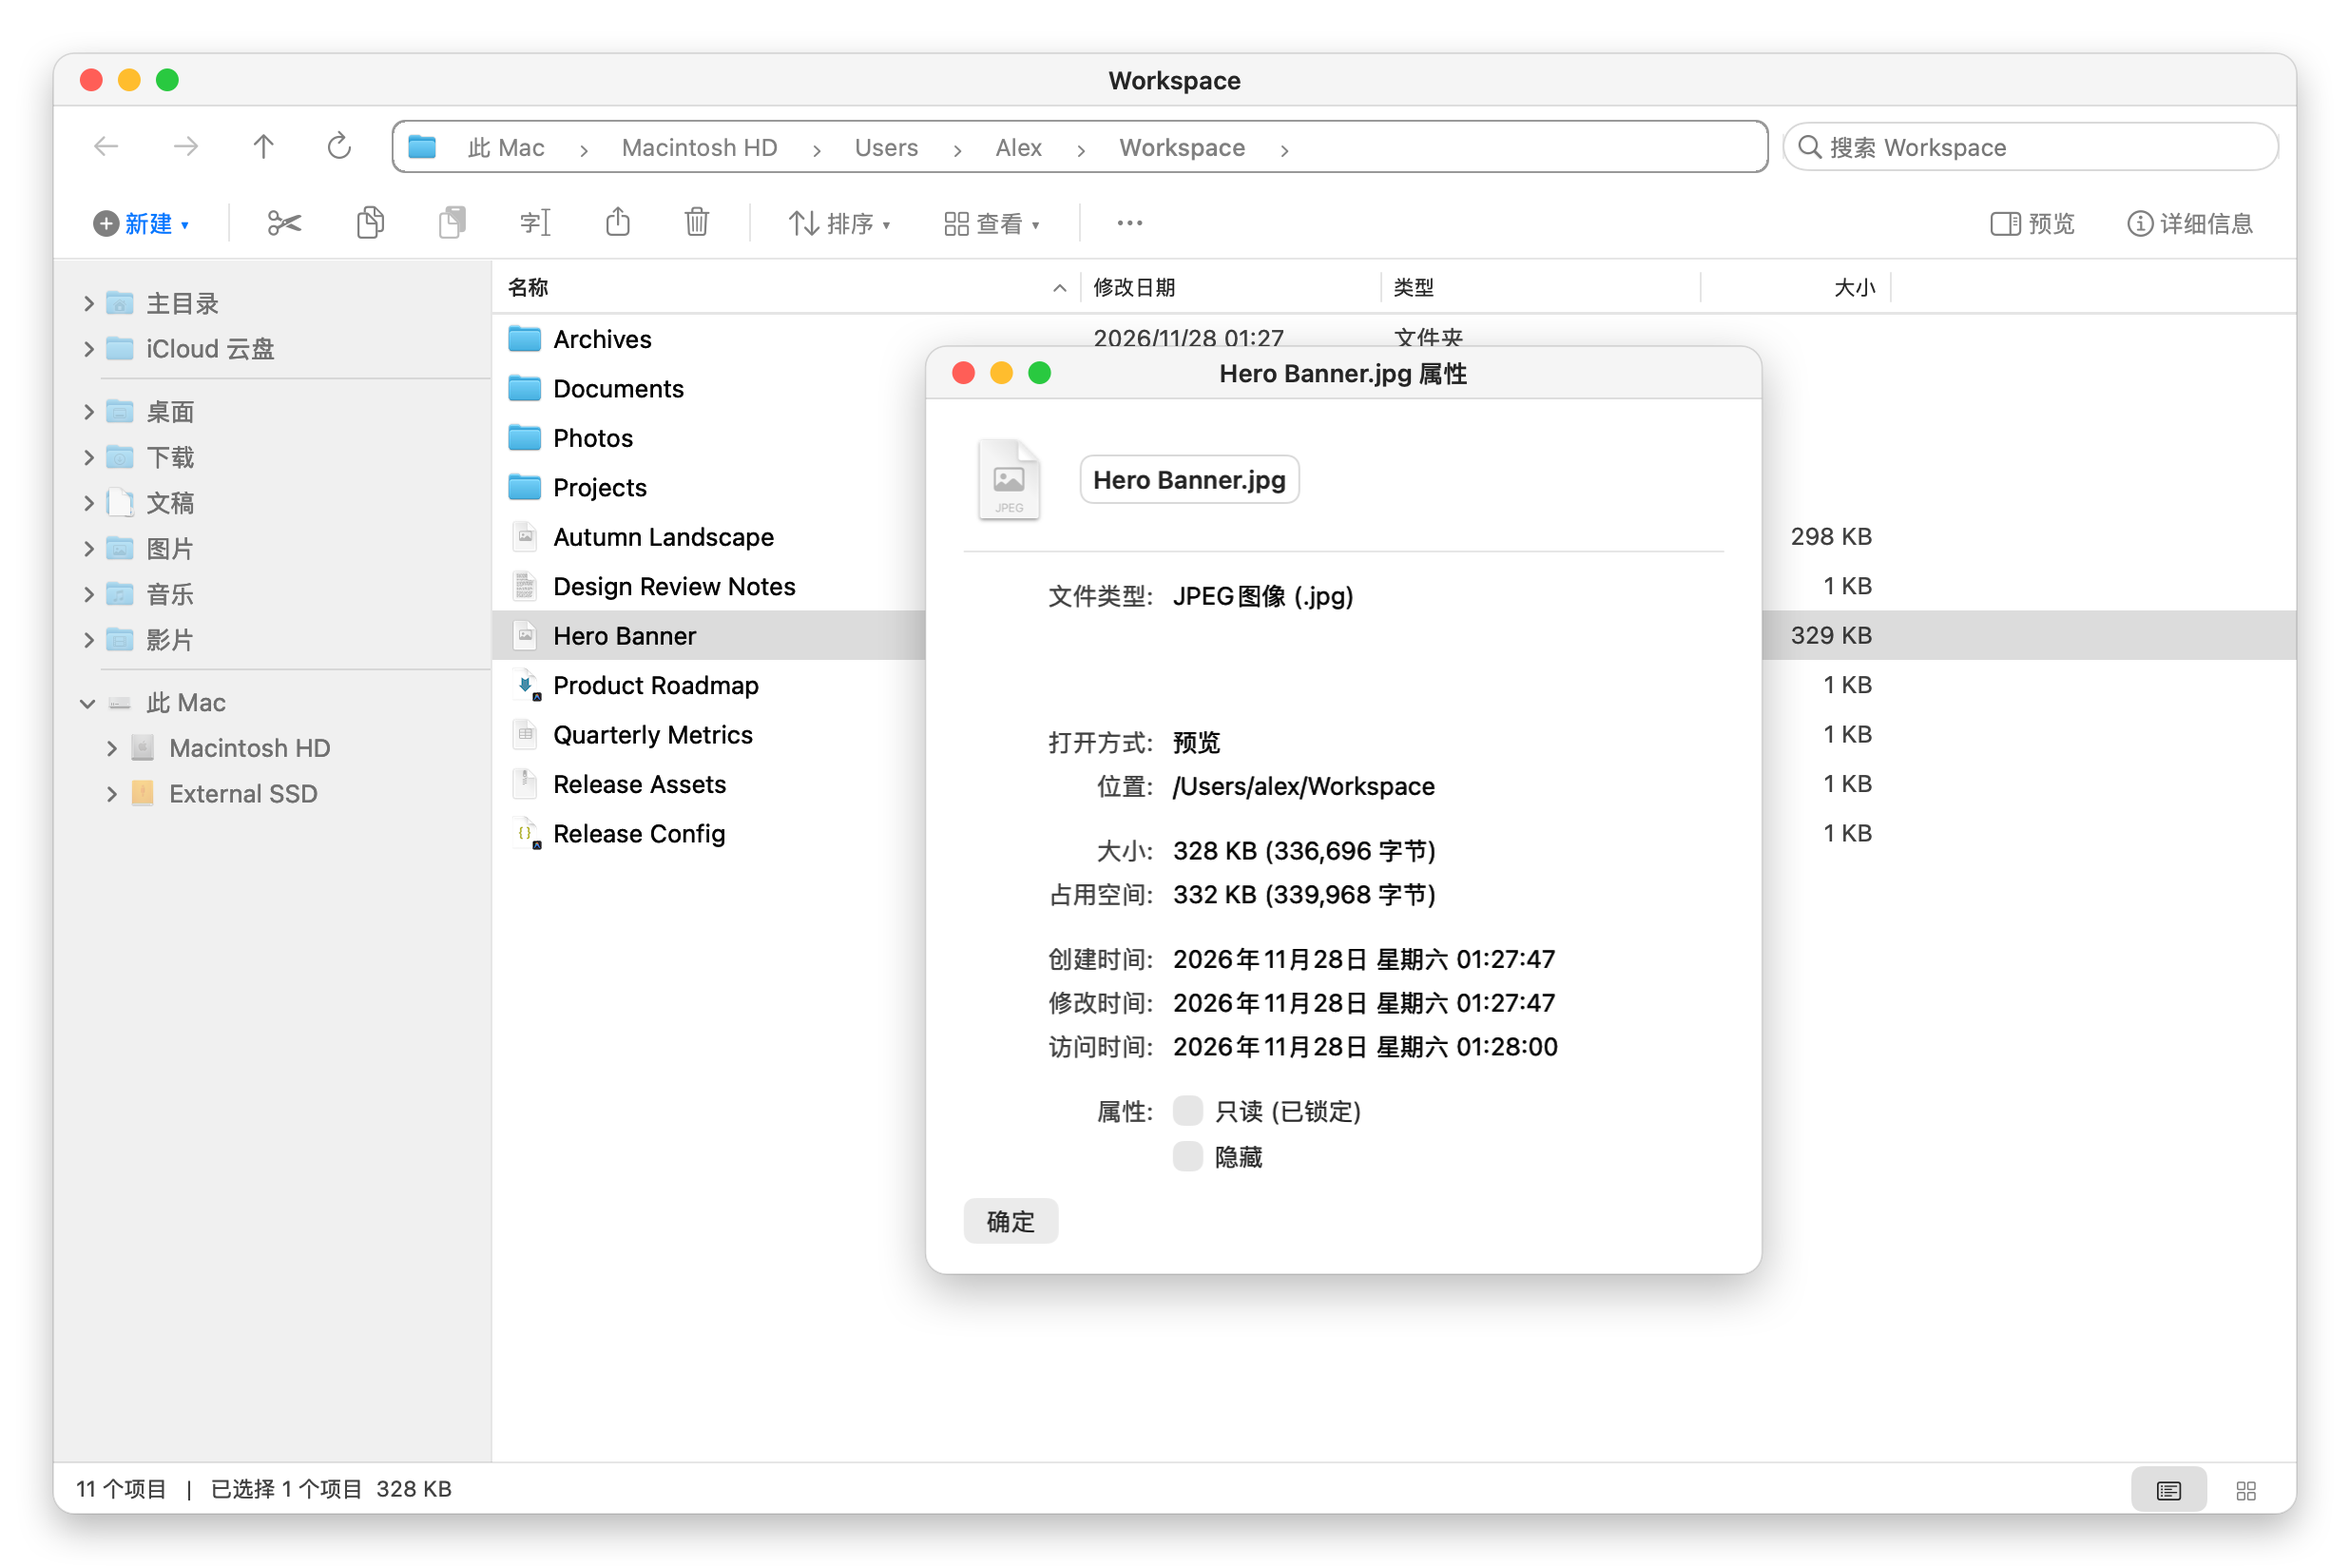
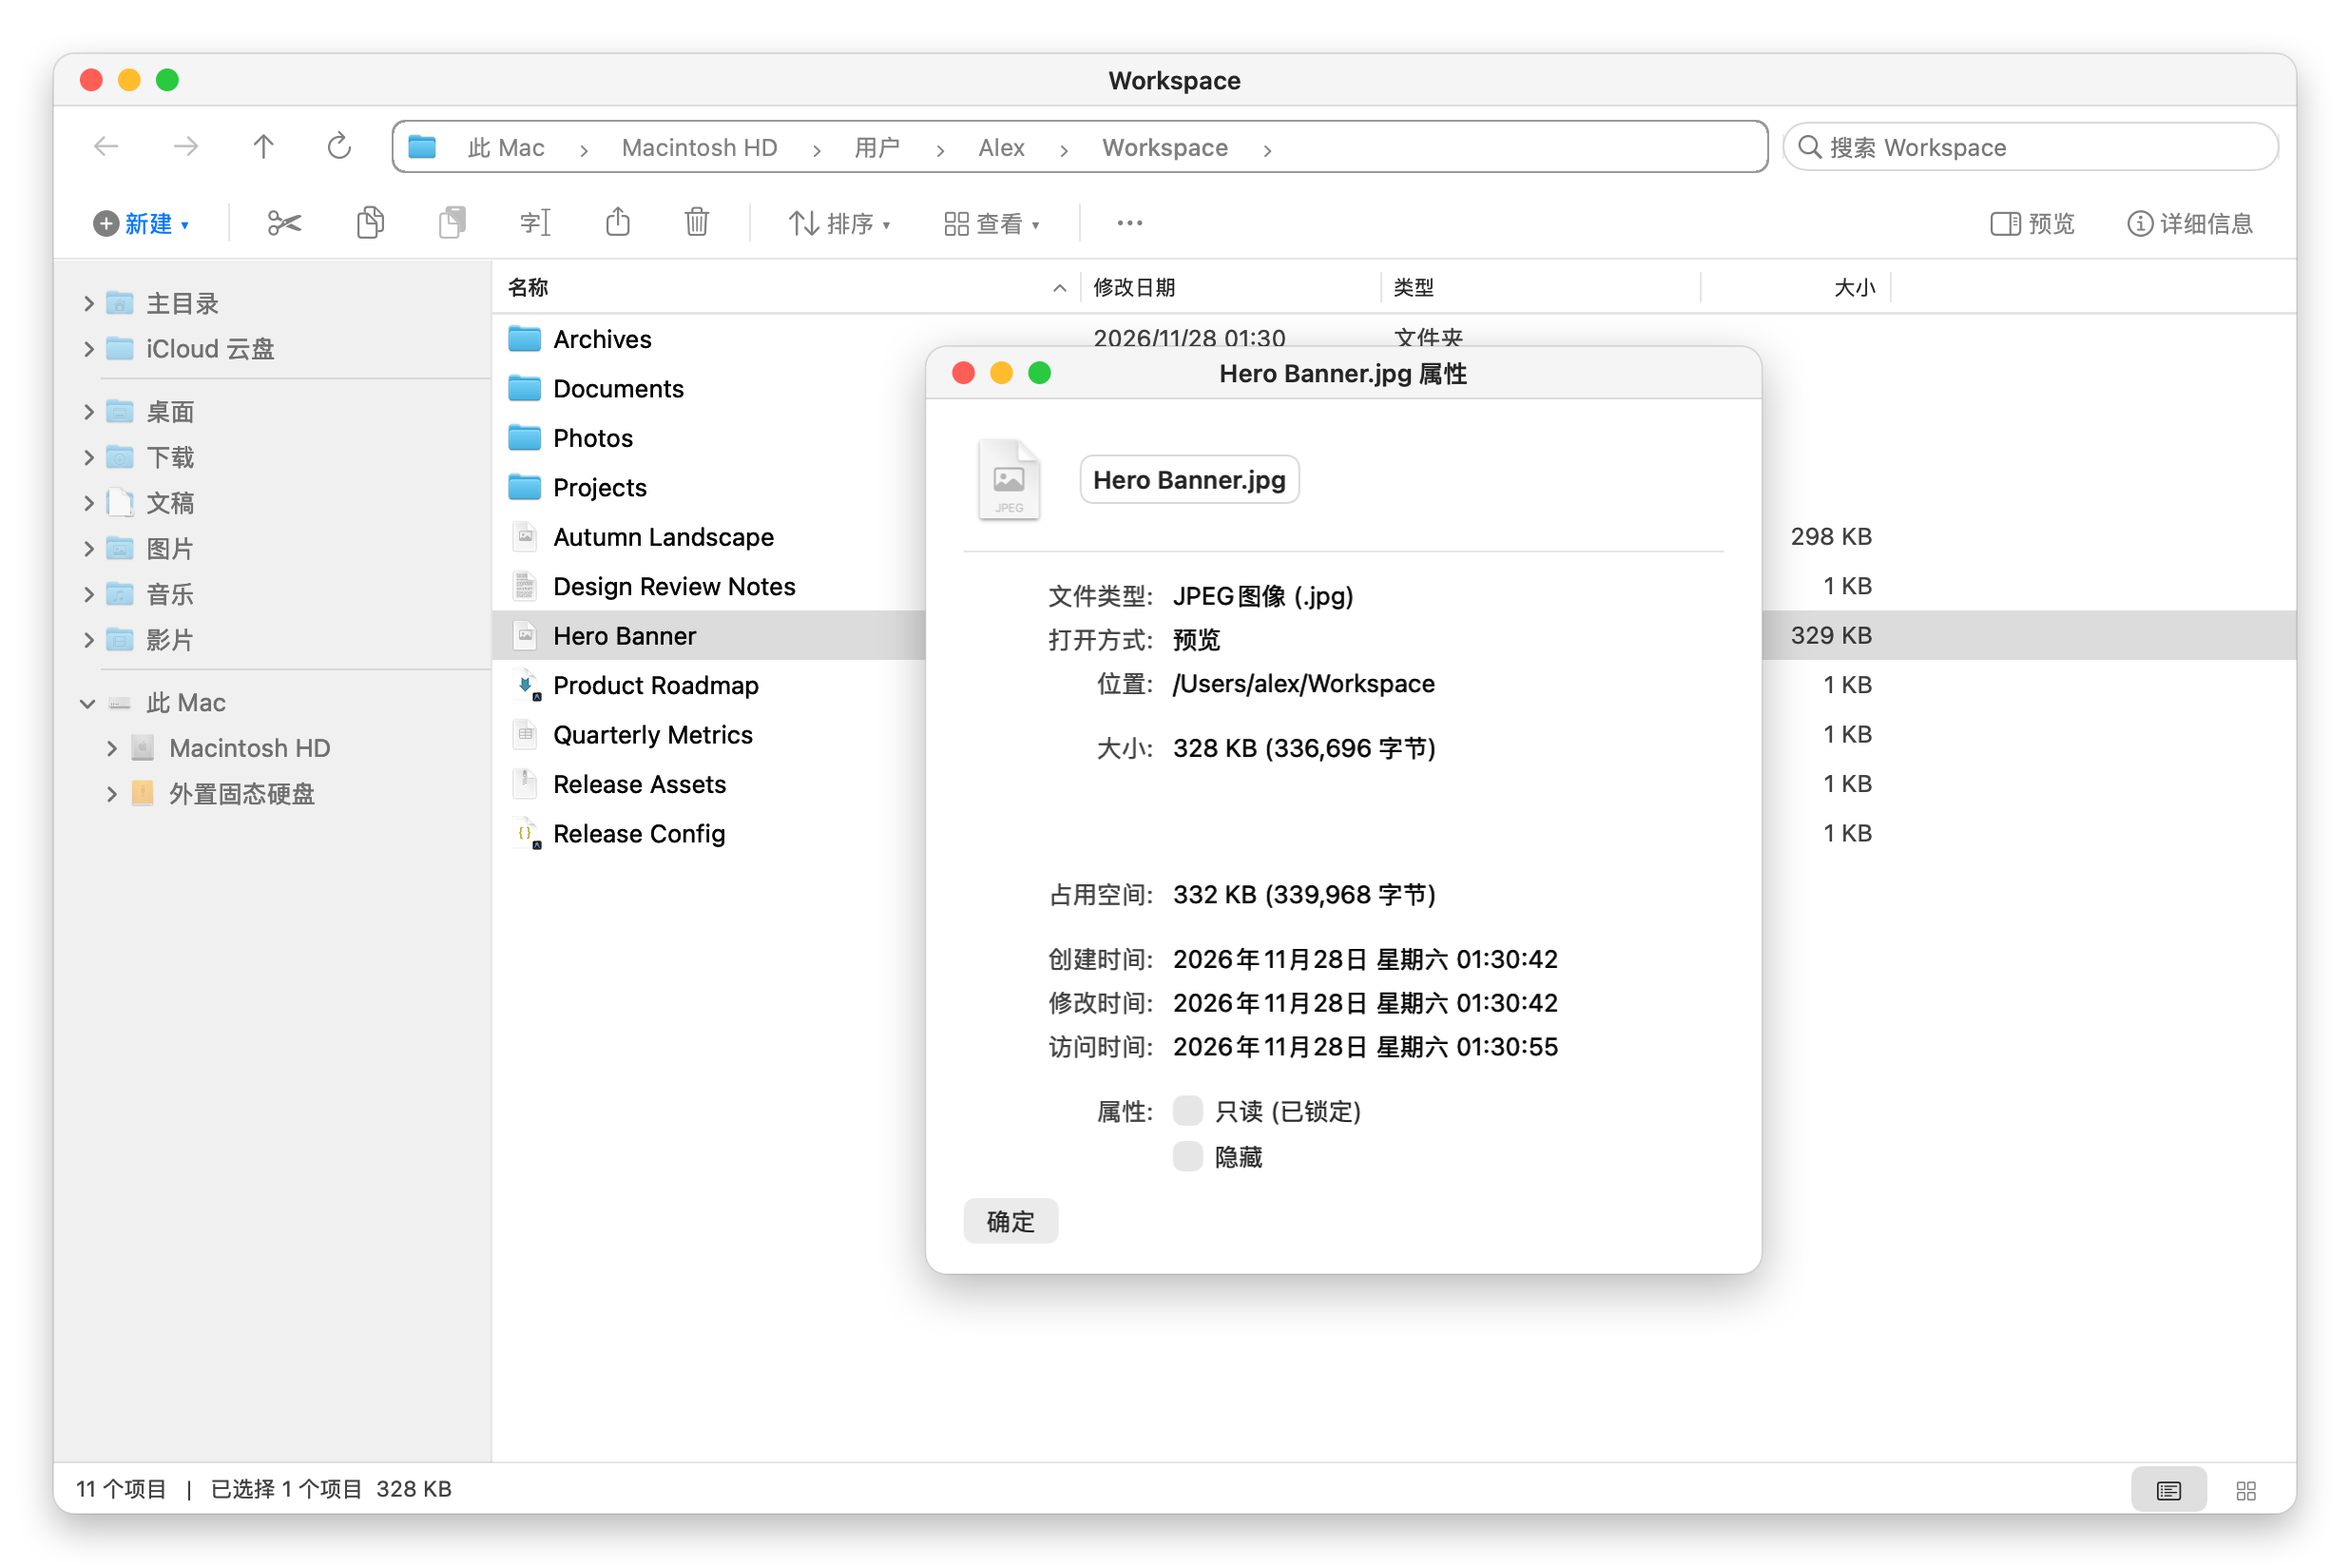
Fix Folder Options View tab spacing and localize redacted demo labels

diff --git a/Arbor/UI/Panels/SettingsWindowController.swift b/Arbor/UI/Panels/SettingsWindowController.swift
@@ -324,9 +324,10 @@ final class SettingsWindowController: NSWindowController, NSWindowDelegate {
         list.add(header: String(localized: "Navigation pane"), symbol: "sidebar.left", level: 0)
         list.add(check(String(localized: "Expand to open folder"), .expandToOpenFolder), level: 1)
         list.add(check(String(localized: "Show This Mac"), .showThisMac), level: 1)
-        list.heightAnchor.constraint(equalToConstant: 450).isActive = true
+        list.heightAnchor.constraint(equalToConstant: 420).isActive = true
 
         let advancedLabel = NSTextField.label(String(localized: "Advanced settings:"))
+        advancedLabel.setContentCompressionResistancePriority(.required, for: .vertical)
         return page([folderViews, advancedLabel, list], restore: #selector(restoreView))
     }
 

diff --git a/Arbor/UI/AddressBar/AddressBarView.swift b/Arbor/UI/AddressBar/AddressBarView.swift
@@ -40,7 +40,7 @@ enum Breadcrumbs {
         #if DEBUG
         if DemoRedactor.enabled, let demoRoot = DemoRedactor.demoRoot,
            url.isSameItem(as: demoRoot) || url.isDescendant(of: demoRoot) {
-            result.append(BreadcrumbSegment(title: "Users", location: .folder(volumeURL)))
+            result.append(BreadcrumbSegment(title: FileManager.default.displayName(atPath: "/Users"), location: .folder(volumeURL)))
             result.append(BreadcrumbSegment(title: "Alex", location: .home))
             result.append(BreadcrumbSegment(title: demoRoot.lastPathComponent, location: .folder(demoRoot)))
             for folder in url.folderChain(below: demoRoot) {

diff --git a/Arbor/Services/DirectoryServices.swift b/Arbor/Services/DirectoryServices.swift
@@ -387,7 +387,7 @@ enum VolumeService {
             let isNetwork = !(values.volumeIsLocal ?? true)
             var displayName = values.volumeLocalizedName ?? url.lastPathComponent
             #if DEBUG
-            if DemoRedactor.enabled, !isRoot, !isNetwork { displayName = "External SSD" }
+            if DemoRedactor.enabled, !isRoot, !isNetwork { displayName = String(localized: "External SSD") }
             #endif
             return VolumeInfo(
                 url: url.normalizedFolder,

diff --git a/Arbor/App/AppDelegate.swift b/Arbor/App/AppDelegate.swift
@@ -334,6 +334,7 @@ final class AppDelegate: NSObject, NSApplicationDelegate {
     private func drawFramedWindow(_ window: NSWindow, in winRect: NSRect, isDark: Bool, shadowRadius: CGFloat) {
         guard let contentView = window.contentView else { return }
         let titleHeight: CGFloat = 28
+        window.makeKeyAndOrderFront(nil)
         window.displayIfNeeded()
         var contentRep: NSBitmapImageRep?
         window.effectiveAppearance.performAsCurrentDrawingAppearance {

diff --git a/Arbor/Core/Location.swift b/Arbor/Core/Location.swift
@@ -72,7 +72,7 @@ enum DemoRedactor {
     static func displayName(of url: URL) -> String? {
         guard enabled else { return nil }
         if url.isSameItem(as: FileManager.default.realHomeDirectory) { return "Alex" }
-        if url.pathKey.hasPrefix("/Volumes/"), url.isVolumeRoot { return "External SSD" }
+        if url.pathKey.hasPrefix("/Volumes/"), url.isVolumeRoot { return String(localized: "External SSD") }
         return nil
     }
 
